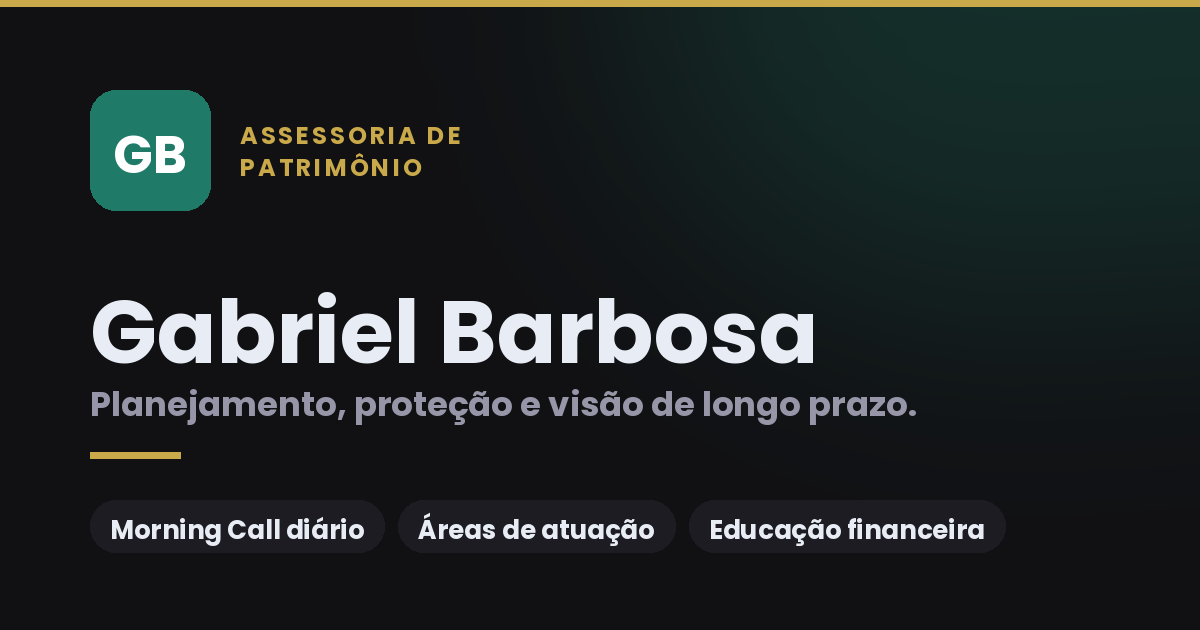
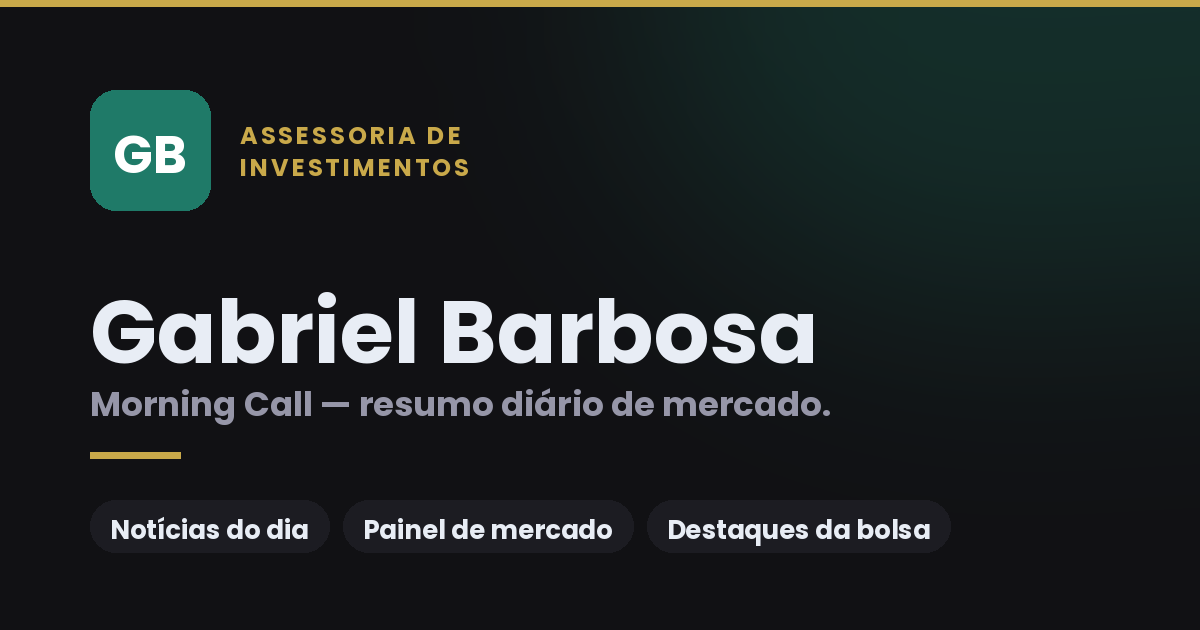
Add files via upload

Changed region(s): [[0.0925, 0.8143, 0.8325, 0.8746], [0.0617, 0.6032, 0.7708, 0.6937], [0.185, 0.2413, 0.4008, 0.3016]]

diff --git a/morning-call.template.html b/morning-call.template.html
@@ -3,16 +3,16 @@
 <head>
 <meta charset="UTF-8">
 <meta name="viewport" content="width=device-width, initial-scale=1.0">
-<title>Morning Call | Gabriel Barbosa — Assessoria de Patrimônio</title>
+<title>Morning Call | Gabriel Barbosa — Assessoria de Investimentos</title>
 <meta name="description" content="Morning Call diário de mercado por Gabriel Barbosa: resumo das principais notícias de economia, mercado e política, painel de cotações e destaques da bolsa.">
 <link rel="icon" type="image/svg+xml" href="favicon.svg">
 <link rel="apple-touch-icon" href="apple-touch-icon.png">
 <meta property="og:type" content="article">
-<meta property="og:site_name" content="Gabriel Barbosa — Assessoria de Patrimônio">
+<meta property="og:site_name" content="Gabriel Barbosa — Assessoria de Investimentos">
 <meta property="og:title" content="Morning Call — Resumo Diário de Mercado">
 <meta property="og:description" content="As principais notícias de economia, mercado e política do dia, com painel de cotações (Ibovespa, dólar, juros, S&P, Nasdaq) e destaques da bolsa.">
 <meta property="og:image" content="https://gaahh13-ai.github.io/assessoria-patrimonio/og-image.png">
-<meta property="og:url" content="https://gaahh13-ai.github.io/assessoria-patrimonio/morning-call.html">
+<meta property="og:url" content="https://gaahh13-ai.github.io/assessoria-patrimonio/">
 <meta name="twitter:card" content="summary_large_image">
 <link rel="preconnect" href="https://fonts.googleapis.com">
 <link rel="preconnect" href="https://fonts.gstatic.com" crossorigin>
@@ -74,6 +74,8 @@
   .row .tk{font-family:'Poppins';font-weight:600;font-size:12.5px}
   .row .nm{font-size:10.5px;color:var(--muted);margin-top:1px}
   .row .pc{font-weight:600;font-size:12.5px;font-variant-numeric:tabular-nums}
+  .row .rt{text-align:right}
+  .row .prc{font-size:10px;color:var(--muted);font-weight:500;margin-top:1px;font-variant-numeric:tabular-nums}
   .pnote{padding:9px 14px;font-size:10.5px;color:var(--muted);border-top:1px solid rgba(255,255,255,.06);line-height:1.4}
   .agenda{background:var(--ink2);border:1px solid rgba(255,255,255,.07);border-radius:13px;padding:2px 2px 4px}
   .agenda .ar{display:flex;gap:10px;align-items:flex-start;padding:10px 14px;border-top:1px solid rgba(255,255,255,.06)}
@@ -92,8 +94,7 @@
 <div class="wrap">
 
   <nav class="nav">
-    <div class="logo"><div class="mk">GB</div><div><b>Gabriel Barbosa</b><div class="sub">Assessoria de Patrimônio</div></div></div>
-    <a href="index.html" class="backlink">Áreas de atuação &amp; Educação →</a>
+    <div class="logo"><div class="mk">GB</div><div><b>Gabriel Barbosa</b><div class="sub">Assessoria de Investimentos</div></div></div>
   </nav>
 
   <div class="titlerow">
@@ -146,7 +147,7 @@
   </div>
 
   <footer>
-    <p class="name">Gabriel Barbosa · Assessoria de Patrimônio</p>
+    <p class="name">Gabriel Barbosa · Assessoria de Investimentos</p>
     <p>Morning Call atualizado em {{FOOTER_DATE}}. Cotações e variações referentes ao fechamento do pregão anterior.</p>
     <p>Este material tem caráter meramente informativo e educacional, elaborado a partir de fontes públicas. <strong>Não constitui recomendação de investimento</strong>, oferta ou solicitação de compra ou venda de qualquer ativo. Rentabilidade passada não é garantia de resultados futuros. Gerado automaticamente e pode conter imprecisões.</p>
   </footer>

diff --git a/generate_morning_call.py b/generate_morning_call.py
@@ -25,7 +25,7 @@ import anthropic
 
 MODEL = os.environ.get("CLAUDE_MODEL", "claude-haiku-4-5-20251001")
 TEMPLATE_PATH = "morning-call.template.html"
-OUTPUT_PATH = "morning-call.html"
+OUTPUT_PATH = "index.html"
 
 TZ = ZoneInfo("America/Sao_Paulo")
 DIAS = ["Segunda-feira", "Terça-feira", "Quarta-feira", "Quinta-feira",
@@ -40,7 +40,7 @@ def data_extenso(dt):
 
 def build_prompt(hoje):
     return f"""Hoje é {data_extenso(hoje)} (horário de Brasília), por volta das 6h da manhã.
-Você vai montar o "Morning Call" diário de mercado da assessoria de patrimônio de Gabriel Barbosa.
+Você vai montar o "Morning Call" diário de mercado da assessoria de investimentos de Gabriel Barbosa.
 
 Como é de manhã cedo, os dados de mercado devem ser do FECHAMENTO DO ÚLTIMO PREGÃO
 (o dia útil anterior na B3 e em Wall Street). Se hoje for segunda-feira, o último pregão foi na sexta.
@@ -54,8 +54,8 @@ Reserve buscas suficientes para as notícias — você PRECISA entregar 4 de Mer
 Colete:
 - Painel (fechamento do último pregão): Ibovespa (pontos e variação %), Dólar USD/BRL (cotação e %),
   Juros Futuros/DI (direção da curva; cite a Selic vigente), Petróleo Brent, S&P 500, Nasdaq, Dow Jones, Stoxx 600.
-- As 5 maiores altas e as maiores baixas do Ibovespa (ticker, nome curto, variação %). Se quase tudo subiu/caiu,
-  liste o que houver e explique numa nota.
+- As 5 maiores altas e as maiores baixas do Ibovespa (ticker, nome curto, variação % E a cotação de
+  fechamento da ação em reais, ex.: "R$ 5,23"). Se quase tudo subiu/caiu, liste o que houver e explique numa nota.
 - 4 notícias de "Mercado & Economia" e 4 de "Política & Internacional", cada uma com um bom RESUMO autoral
   (2 a 4 frases, escrito por você, sem copiar o texto da fonte), o veículo e a URL REAL da matéria (verifique cada link).
 - Agenda econômica da semana (4 a 6 itens) com dia e evento; marque o item mais importante com "hl": true.
@@ -77,8 +77,8 @@ Responda APENAS com um objeto JSON válido entre as marcas <json> e </json>, no 
     {{"lbl": "Dow Jones", "val": "52.637,01", "chg": "▲ +0,29%", "bar": "up", "cls": "up"}},
     {{"lbl": "Stoxx 600", "val": "641,10", "chg": "▲ +0,04%", "bar": "up", "cls": "up"}}
   ],
-  "altas": [{{"tk": "CMIN3", "nm": "CSN Mineração", "pc": "+8,28%"}}],
-  "baixas": [{{"tk": "PRIO3", "nm": "PRIO", "pc": "−0,29%"}}],
+  "altas": [{{"tk": "CMIN3", "nm": "CSN Mineração", "pc": "+8,28%", "preco": "R$ 5,23"}}],
+  "baixas": [{{"tk": "PRIO3", "nm": "PRIO", "pc": "−0,29%", "preco": "R$ 55,45"}}],
   "baixas_nota": "Opcional: nota curta se o pregão foi de alta/queda generalizada. Use string vazia se não precisar.",
   "noticias_eco": [
     {{"tag": "Mercado", "tag_class": "mkt", "titulo": "...", "resumo": "...", "fonte": "Money Times", "url": "https://..."}}
@@ -145,8 +145,8 @@ def repair_to_json(client, text):
     prompt = (
         "O texto a seguir contém dados de mercado e notícias, possivelmente em prosa. "
         "Converta em UM ÚNICO objeto JSON válido do Morning Call, com as chaves: date, subtitle, "
-        "resumo (lista de 2 strings), painel (lista de {lbl,val,chg,bar,cls}), altas (lista {tk,nm,pc}), "
-        "baixas (lista {tk,nm,pc}), baixas_nota, noticias_eco e noticias_pol (listas de "
+        "resumo (lista de 2 strings), painel (lista de {lbl,val,chg,bar,cls}), altas (lista {tk,nm,pc,preco}), "
+        "baixas (lista {tk,nm,pc,preco}), baixas_nota, noticias_eco e noticias_pol (listas de "
         "{tag,tag_class,titulo,resumo,fonte,url}), agenda (lista {day,ev,hl}) e footer_date. "
         "Use os dados presentes no texto; se algo faltar, use \"n/d\" ou omita itens da lista. "
         "Responda SOMENTE com o JSON entre <json> e </json>, sem nenhum texto extra.\n\nTEXTO:\n" + text
@@ -181,10 +181,12 @@ def render_panel(items):
 def render_rows(items, cls):
     out = []
     for it in items:
+        preco = it.get("preco", "")
+        preco_html = f'<div class="prc">{esc(preco)}</div>' if preco and preco != "n/d" else ""
         out.append(
             f'        <div class="row"><div><div class="tk">{esc(it["tk"])}</div>'
             f'<div class="nm">{esc(it["nm"])}</div></div>'
-            f'<div class="pc {cls}">{esc(it["pc"])}</div></div>'
+            f'<div class="rt"><div class="pc {cls}">{esc(it["pc"])}</div>{preco_html}</div></div>'
         )
     return "\n".join(out)
 
